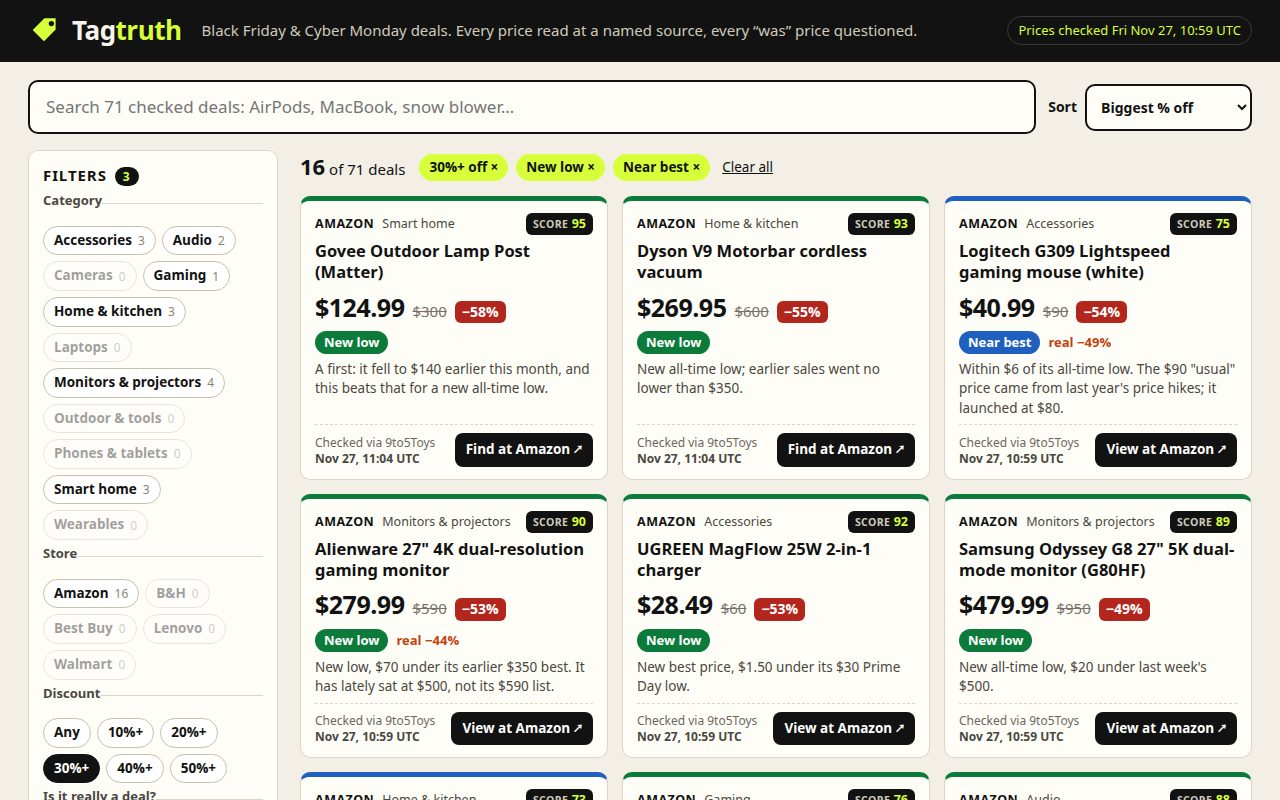
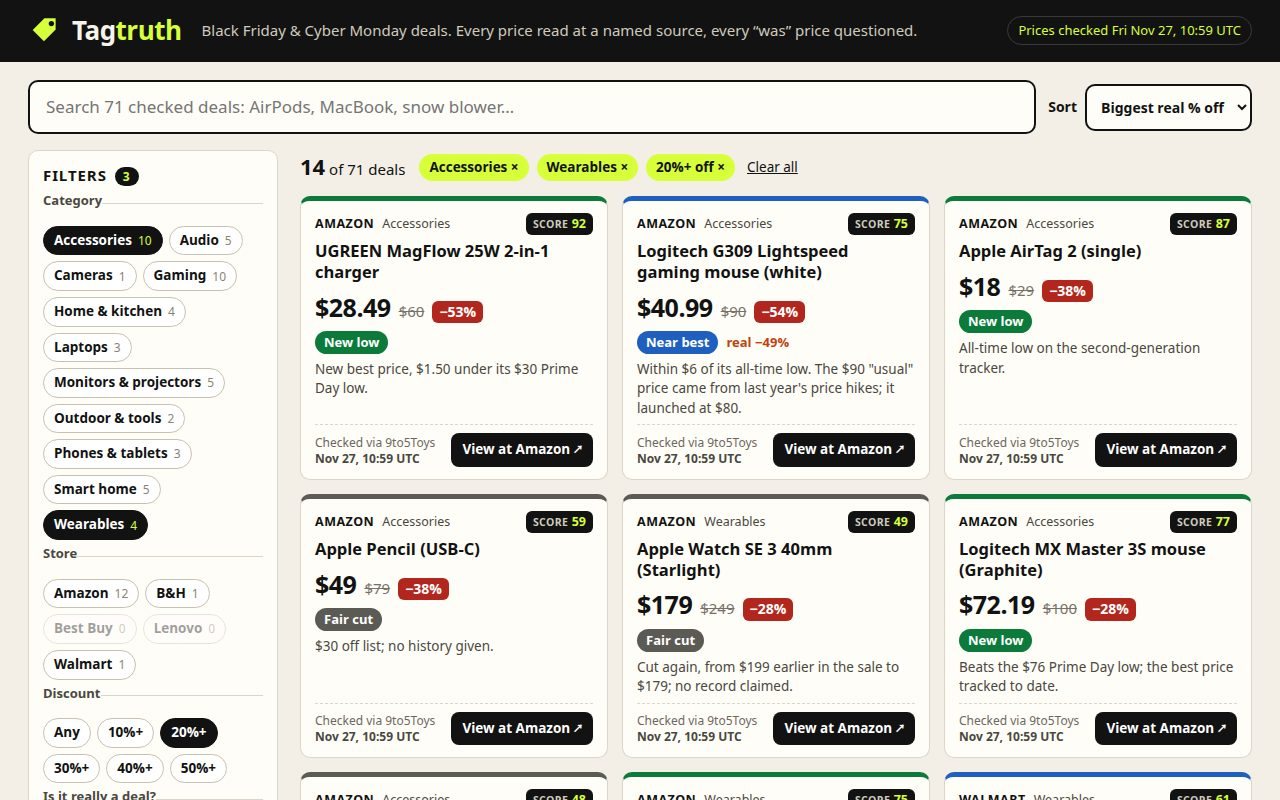
Lazy-load the deal page, compare stores on cards, tighten deal page layout
Deal page code now loads by import() when a deal opens. Cards show the same
product's price at other stores; deal page puts source trail and store
comparison side by side; phone filters start collapsed with a hint.

diff --git a/app/style.css b/app/style.css
@@ -97,6 +97,9 @@ main { max-width: 1320px; margin: 0 auto; padding: 18px 28px 32px; }
 .pill { display: inline-block; padding: 2px 9px; border-radius: 999px; background: var(--vc); color: #fff; font-weight: 800; font-size: 13px; }
 .real { font-size: 13px; font-weight: 700; color: var(--inflated); }
 .why { margin: 0; font-size: 13.5px; color: var(--ink-2); }
+.elsewhere { margin: 0; padding: 3px 8px; border-radius: 6px; background: #eaf2ff; color: var(--match); font-size: 13px; font-weight: 700; }
+.hint { display: none; margin-left: 10px; font-weight: 500; text-transform: none; letter-spacing: 0; color: #8a8478; font-size: 13px; }
+.filters:not([open]) .hint { display: inline; }
 .card-foot { margin-top: auto; padding-top: 8px; display: flex; align-items: flex-end; justify-content: space-between; gap: 8px; border-top: 1px dashed var(--line); }
 .checked { font-size: 12px; color: #6d675e; line-height: 1.35; }
 .checked b { font-weight: 600; color: var(--ink-2); white-space: nowrap; }
@@ -115,14 +118,14 @@ main { max-width: 1320px; margin: 0 auto; padding: 18px 28px 32px; }
 
 /* Deal page */
 .crumbs { font-size: 14px; margin-bottom: 12px; color: var(--ink-2); }
-.deal { display: grid; grid-template-columns: 1fr 340px; gap: 22px; padding: 22px; background: var(--card); border: 1px solid var(--line); border-top: 6px solid var(--vc); border-radius: var(--radius); }
+.deal { display: grid; grid-template-columns: 1fr 340px; gap: 22px; padding: 18px 22px; background: var(--card); border: 1px solid var(--line); border-top: 6px solid var(--vc); border-radius: var(--radius); }
 .deal-store { margin: 0; font-weight: 800; text-transform: uppercase; letter-spacing: 0.05em; font-size: 13px; }
 .deal h1 { margin: 4px 0 12px; font-size: 30px; line-height: 1.15; letter-spacing: -0.01em; }
 .prices.big .now { font-size: 44px; }
 .prices.big .was { font-size: 20px; }
 .prices.big .off { font-size: 18px; }
 .saved { font-weight: 700; color: var(--low); }
-.scale { position: relative; height: 12px; margin: 30px 0 46px; background: #e9e3d6; border-radius: 6px; }
+.scale { position: relative; height: 12px; margin: 24px 0 44px; background: #e9e3d6; border-radius: 6px; }
 .scale .fill { position: absolute; inset: 0 auto 0 0; background: var(--vc); border-radius: 6px; }
 .mark { position: absolute; top: 16px; transform: translateX(-50%); display: flex; flex-direction: column; align-items: center; font-size: 12px; color: var(--ink-2); white-space: nowrap; }
 .mark::before { content: ''; position: absolute; top: -20px; width: 2px; height: 16px; background: var(--ink); }
@@ -137,7 +140,9 @@ main { max-width: 1320px; margin: 0 auto; padding: 18px 28px 32px; }
 .score.big { margin-left: auto; font-size: 22px; padding: 4px 10px; }
 .blurb { font-weight: 700; margin: 10px 0 6px; }
 .verdict-box .why { font-size: 15px; color: var(--ink); }
-.evidence, .compare, .related { margin-top: 22px; }
+.below { display: grid; gap: 22px; margin-top: 20px; }
+.below.two { grid-template-columns: 3fr 2fr; }
+.related { margin-top: 22px; }
 .evidence h2, .compare h2, .related h2 { font-size: 19px; margin: 0 0 10px; }
 .trail { list-style: none; margin: 0; padding: 14px 16px; background: var(--card); border: 1px solid var(--line); border-radius: var(--radius); display: grid; gap: 8px; font-size: 14.5px; }
 .trail span { display: inline-block; min-width: 128px; font-weight: 700; }
@@ -164,6 +169,7 @@ main { max-width: 1320px; margin: 0 auto; padding: 18px 28px 32px; }
   .filters { position: static; }
   .grid { grid-template-columns: 1fr; gap: 10px; }
   .deal { grid-template-columns: 1fr; padding: 16px; }
+  .below.two { grid-template-columns: 1fr; }
   .deal h1 { font-size: 24px; }
   .prices.big .now { font-size: 36px; }
   .trail span { display: block; }

diff --git a/app/ui/detail.js b/app/ui/detail.js
@@ -42,7 +42,7 @@ function otherStores(deal, deals) {
   const rows = deals
     .filter((d) => d.group === deal.group)
     .sort((a, b) => a.price - b.price)
-    .map((d) => `<tr${d.id === deal.id ? ' class="here"' : ''}><td>${escapeHtml(d.store)}</td><td>${money(d.price)}</td><td>${escapeHtml(d.terms ?? '')}</td><td><a href="${escapeHtml(d.url)}" target="_blank" rel="noopener nofollow">${storeLinkLabel(d)} ↗</a></td></tr>`)
+    .map((d) => `<tr${d.id === deal.id ? ' class="here"' : ''}><td>${escapeHtml(d.store)}</td><td>${money(d.price)}</td><td>${escapeHtml(d.terms ?? '–')}</td><td><a href="${escapeHtml(d.url)}" target="_blank" rel="noopener nofollow">${storeLinkLabel(d)} ↗</a></td></tr>`)
     .join('');
   return `<section class="compare"><h2>Same product, other stores</h2><table><thead><tr><th>Store</th><th>Price</th><th>Extras</th><th></th></tr></thead><tbody>${rows}</tbody></table></section>`;
 }
@@ -53,7 +53,7 @@ function related(deal, deals) {
     .sort((a, b) => dealScore(b) - dealScore(a))
     .slice(0, 3);
   if (!picks.length) return '';
-  return `<section class="related"><h2>More ${escapeHtml(deal.cat.toLowerCase())} deals</h2><ul class="grid">${picks.map(dealCard).join('')}</ul></section>`;
+  return `<section class="related"><h2>More ${escapeHtml(deal.cat.toLowerCase())} deals</h2><ul class="grid">${picks.map((d) => dealCard(d, deals)).join('')}</ul></section>`;
 }
 
 export function dealPage(deal, deals) {
@@ -86,8 +86,10 @@ export function dealPage(deal, deals) {
     ${real}
   </aside>
 </article>
-<section class="evidence"><h2>Where this price comes from</h2>${sourceTrail(deal)}</section>
-${otherStores(deal, deals)}
+<div class="below${deal.group ? ' two' : ''}">
+  <section class="evidence"><h2>Where this price comes from</h2>${sourceTrail(deal)}</section>
+  ${otherStores(deal, deals)}
+</div>
 ${related(deal, deals)}`;
 }
 

diff --git a/app/main.js b/app/main.js
@@ -7,7 +7,6 @@
 import { deals } from './data/deals.js';
 import { applyQuery, readQuery, writeQuery } from './lib/query.js';
 import { activeFilterCount, activeSummary, filterPanel, sortMenu } from './ui/controls.js';
-import { dealPage, missingPage } from './ui/detail.js';
 import { listShell, resultsGrid } from './ui/list.js';
 
 const app = document.getElementById('app');
@@ -17,7 +16,7 @@ let query = readQuery(location.hash);
 // Redraw what depends on the query, leaving the search box alone so typing never loses focus.
 function refreshResults() {
   const shown = applyQuery(deals, query);
-  app.querySelector('#grid').innerHTML = resultsGrid(shown);
+  app.querySelector('#grid').innerHTML = resultsGrid(shown, deals);
   app.querySelector('#panel').innerHTML = filterPanel(deals, query);
   app.querySelector('#summary').innerHTML = activeSummary(shown.length, deals.length, query);
   app.querySelector('#filtercount').textContent = activeFilterCount(query) || '';
@@ -64,16 +63,18 @@ function showList() {
   refreshResults();
 }
 
-function showDeal(id) {
+// The deal page's code loads only when a deal is opened, keeping the finder's first load small.
+async function showDeal(id) {
+  const { dealPage, missingPage } = await import('./ui/detail.js');
   const deal = deals.find((d) => d.id === id);
   document.title = `${deal ? deal.name : 'Not found'} | Tagtruth`;
   app.innerHTML = deal ? dealPage(deal, deals) : missingPage();
 }
 
-function route() {
+async function route() {
   window.__shotReady = false;
   const match = location.hash.match(/^#\/deal\/([^/?]+)/);
-  if (match) showDeal(decodeURIComponent(match[1]));
+  if (match) await showDeal(decodeURIComponent(match[1]));
   else {
     query = readQuery(location.hash);
     showList();

diff --git a/app/ui/card.js b/app/ui/card.js
@@ -8,7 +8,14 @@ export function storeLinkLabel(deal) {
   return deal.link === 'search' ? `Find at ${deal.store}` : `View at ${deal.store}`;
 }
 
-export function dealCard(deal) {
+// "Also $299 at Walmart" for a product we found at more than one store.
+function elsewhere(deal, deals) {
+  if (!deal.group) return '';
+  const others = deals.filter((d) => d.group === deal.group && d.id !== deal.id);
+  return others.map((d) => `<p class="elsewhere">Also ${money(d.price)} at ${escapeHtml(d.store)}${d.price > deal.price ? '' : d.price < deal.price ? ' (cheaper)' : ' (same price)'}</p>`).join('');
+}
+
+export function dealCard(deal, deals = []) {
   const source = sources[deal.src];
   const verdict = VERDICTS[deal.verdict];
   const off = percentOff(deal);
@@ -28,6 +35,7 @@ export function dealCard(deal) {
   </div>
   <p class="verdict"><span class="pill">${verdict.label}</span>${deal.fair ? ` <span class="real">real −${real}%</span>` : ''}</p>
   <p class="why">${escapeHtml(deal.why)}</p>
+  ${elsewhere(deal, deals)}
   <div class="card-foot">
     <span class="checked">Checked via ${escapeHtml(source.name)}<br><b>${utcStamp(source.read)}</b></span>
     <a class="go" href="${escapeHtml(deal.url)}" target="_blank" rel="noopener nofollow">${storeLinkLabel(deal)} ↗</a>

diff --git a/app/ui/list.js b/app/ui/list.js
@@ -16,7 +16,7 @@ export function listShell(query, total) {
   </form>
   <div class="layout">
     <details class="filters" id="filters" open>
-      <summary>Filters<span class="badge" id="filtercount">${n || ''}</span></summary>
+      <summary>Filters<span class="badge" id="filtercount">${n || ''}</span><span class="hint">category · store · % off · verdict</span></summary>
       <div id="panel"></div>
     </details>
     <div class="results">
@@ -28,8 +28,8 @@ export function listShell(query, total) {
 </section>`;
 }
 
-export function resultsGrid(shown) {
-  if (shown.length) return shown.map(dealCard).join('');
+export function resultsGrid(shown, all) {
+  if (shown.length) return shown.map((d) => dealCard(d, all)).join('');
   return `<li class="none"><strong>No deal matches all of that.</strong> Remove a filter above, or <button type="button" class="linkish" data-clear>clear them all</button>.</li>`;
 }
 
